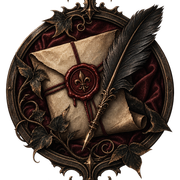
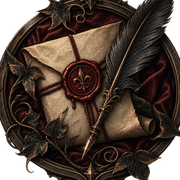
SITE: увеличить медальон в иконке — кроп 900px вместо полной ширины

diff --git a/CLAUDE.md b/CLAUDE.md
@@ -30,7 +30,7 @@ This file provides guidance to Claude Code (claude.ai/code) when working with co
 | `public/images/library.webp` | Фон секции «Подарки» — готическая библиотека | Production asset, готовый арт |
 | `public/images/envelope.webp` | Конверт с сургучной печатью в секции «Подарки» | Production asset, готовый арт |
 | `public/images/floor.webp` | Кромка каменного пола на стыках секций (`FloorEdge.tsx`), декоративный слой | Production asset, готовый арт |
-| `src/app/icon.png`, `src/app/apple-icon.png` | Favicon (256×256) и apple-touch-icon (180×180) — медальон с конвертом, сургучной печатью и пером из дизайн-проекта. Сгенерированы через `sharp` из вертикального исходника 1024×1536 квадратным кропом по кругу медальона (`extract` со сдвигом по вертикали, шпили сверху/снизу отсечены — иначе на 16–32px медальон превращался бы в мелкое пятно с широкими полями). Подхватываются конвенцией App Router, ручных `<link>` в `layout.tsx` нет. Прежняя заглушка `icon.svg` (ромб на графитовом квадрате) удалена — два `icon.*` в одном сегменте дали бы два `rel="icon"` | Production asset, готовый арт |
+| `src/app/icon.png`, `src/app/apple-icon.png` | Favicon (256×256) и apple-touch-icon (180×180) — медальон с конвертом, сургучной печатью и пером из дизайн-проекта. Сгенерированы через `sharp` из вертикального исходника 1024×1536 квадратным кропом 900×900 по центру круга медальона (`extract { left: 58, top: 295 }`): шпили сверху/снизу отсечены целиком, внешнее кольцо слегка подрезано по краям — иначе на 16–32px медальон превращался бы в мелкое пятно с полями. Плотнее (780px и уже) кропать нельзя: круглый силуэт теряется и кадр читается как случайный обрезок арта. Подхватываются конвенцией App Router, ручных `<link>` в `layout.tsx` нет. Прежняя заглушка `icon.svg` (ромб на графитовом квадрате) удалена — два `icon.*` в одном сегменте дали бы два `rel="icon"` | Production asset, готовый арт |
 | `assets/tower-dragons.png` | Исходный PNG hero-арта | Архив/источник, production использует `public/images/tower-dragons.webp` |
 | `data/guests.source.example.json` | Пример формата plaintext-источника для `scripts/hash-answers.mjs` | Коммитится, содержит только пример данных |
 | `data/guests.source.json` | Реальный plaintext-источник ответов гостей: **реальный guest list от заказчика, 38 имён** — 21 со стороны жениха, 17 со стороны невесты. У каждого гостя к имени добавлен инициал фамилии («Наталья И.» / «Наталья Л.») — заказчик проставил их всем ради консистентности, а заодно чтобы тёзки различались на дереве; `id` собран по тому же принципу (`natalya-i`, `natalya-l`), без порядковых суффиксов. **Порядок записей в файле — это раскладка яблок на дереве** (i-й гость садится на i-й слот `APPLE_POSITIONS`), поэтому список отсортирован не по алфавиту, а по сторонам и близости родства. Персональные вопросы/ответы верификации пока не заданы ни для кого (whitelist пуст) — все 38 гостей видят приветственную модалку без input, см. Open Questions | **В `.gitignore`, не коммитится.** Регенерирует `src/data/guests.ts` через `npm run hash-answers` |
